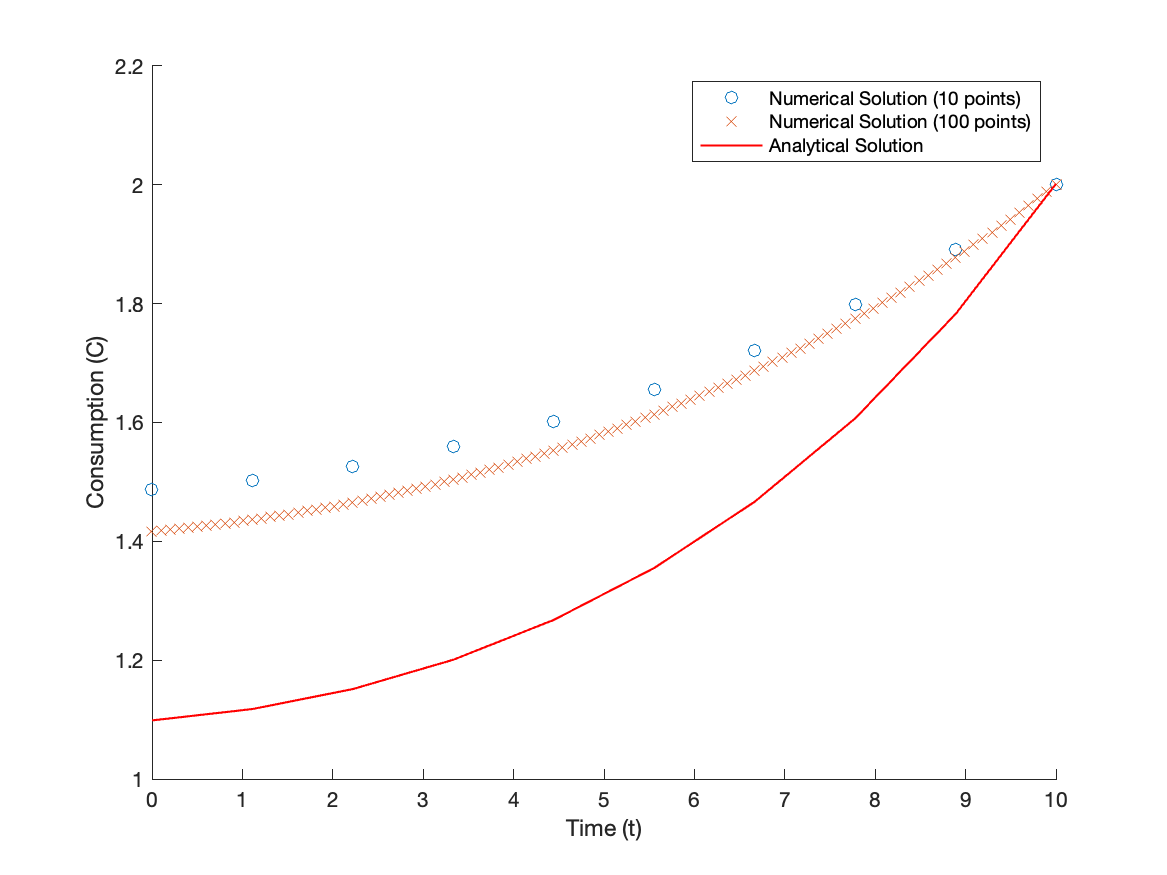
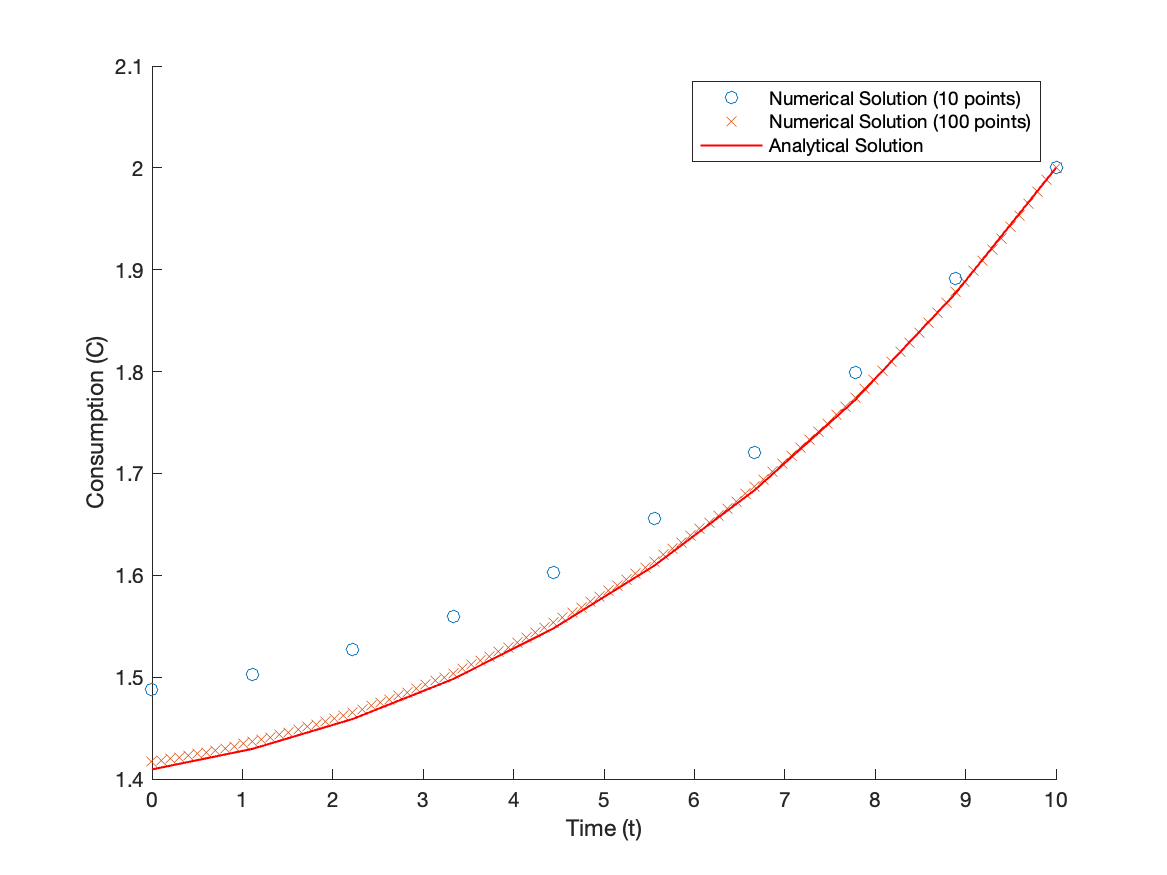
Fixed error in analytical solution of differential equation

diff --git a/ProblemSetSolutions/PS1.m b/ProblemSetSolutions/PS1.m
@@ -19,12 +19,12 @@ for t = 2:pars.T
 end
 
 % Q.1 Solve Consumption equation analytically using integrating factor method
-% C(t) = 1.0986*exp(0.5*(0.02t+0.01*t^2))
+% C(t) = 1.4094*exp(0.5*(0.02t+0.01*t^2))
 
 % Plot this solution function 
 
 t = 1:pars.T;
-C = 1.0986*exp(0.5*(0.02*t+0.01*t.^2));
+C = 1.4094*exp(0.5*(0.02*t+.5*0.01*t.^2));
 figure
 plot(t,C)
 hold on
@@ -34,7 +34,7 @@ ylabel('Consumption (C)'); % Add y label
 hold off
 
 % Save picture 
-saveas(gcf, '/Users/muhammadbashir/GitHub/DynamicProgramming2024/ProblemSetSolutions/Consumption.png')
+saveas(gcf, '/Users/muhammadbashir/GitHub/DynamicProgramming2024/ProblemSetSolutions/ConsumptionEvolutionAnalytical.png')
 
 % Q.2 Solving numerically using Finite Difference Method
 % create 1000 grid points between 0 and 10
@@ -56,13 +56,13 @@ end
 figure
 scatter(t, C, 'o', 'LineWidth', .01) % Numerical solution as scatter plot with circles
 hold on
-plot(t, 1.0986*exp(0.5*(0.02*t+0.01*t.^2)), '-r', 'LineWidth', 1) % Analytical solution as thick red line
+plot(t, 1.4094*exp(0.5*(0.02*t+.5*0.01*t.^2)), '-r', 'LineWidth', 1) % Analytical solution as thick red line
 xlabel('Time (t)'); % Add x label
 ylabel('Consumption (C)'); % Add y label
 legend('Numerical Solution', 'Analytical Solution')
 hold off
 % save 
-saveas(gcf, '/Users/muhammadbashir/GitHub/DynamicProgramming2024/ProblemSetSolutions/ConsumptionNumerical.png')
+saveas(gcf, '/Users/muhammadbashir/GitHub/DynamicProgramming2024/ProblemSetSolutions/ConsumptionEvolutionNumerical_100Steps.png')
 % Store this C as C100
 C100 = C;
 t100 = t;
@@ -86,7 +86,7 @@ figure
 scatter(t, C, 'o', 'LineWidth', .01) % Numerical solution as scatter plot with circles
 hold on
 scatter(t100, C100, 'x', 'LineWidth', .01) % Numerical solution as scatter plot with circles
-plot(t, 1.0986*exp(0.5*(0.02*t+0.01*t.^2)), '-r', 'LineWidth', 1) % Analytical solution as thick red line
+plot(t, 1.4094*exp(0.5*(0.02*t+.5*0.01*t.^2)), '-r', 'LineWidth', 1) % Analytical solution as thick red line
 xlabel('Time (t)'); % Add x label
 ylabel('Consumption (C)'); % Add y label
 legend('Numerical Solution (10 points)', 'Numerical Solution (100 points)', 'Analytical Solution')
